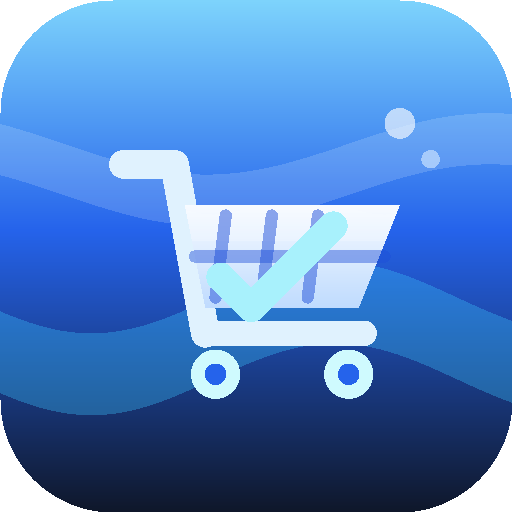
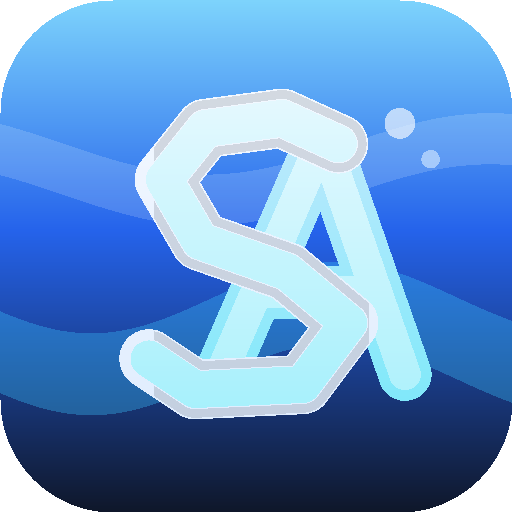
Add files via upload

Changed region(s): [[0.1875, 0.1562, 0.8438, 0.8438]]

diff --git a/service-worker.js b/service-worker.js
@@ -1,4 +1,4 @@
-const CACHE_NAME = "shopping-manager-pwa-v10";
+const CACHE_NAME = "shopping-manager-pwa-v12";
 const APP_SHELL = [
   "./",
   "./index.html",

diff --git a/styles.css b/styles.css
@@ -500,13 +500,13 @@ textarea {
 
 #masters.form-open .master-view.active > form.panel {
   position: fixed;
+  top: max(76px, env(safe-area-inset-top));
   left: 12px;
   right: 12px;
   bottom: max(12px, env(safe-area-inset-bottom));
   z-index: 20;
   display: grid;
   width: min(720px, calc(100vw - 24px));
-  max-height: calc(100vh - 60px);
   overflow: auto;
   margin: 0 auto;
   border-radius: 18px;